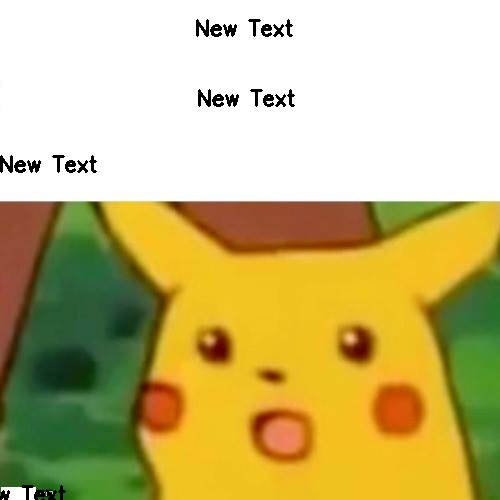
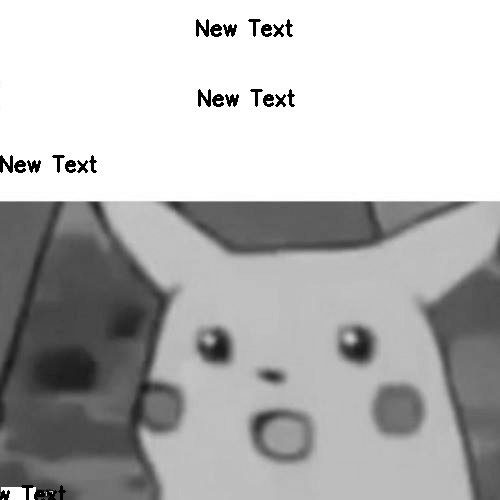
add hujny

diff --git a/main.py b/main.py
@@ -3,7 +3,7 @@ import cv2
 
 def detect_and_replace_text(image_path, new_text, output_path):
     # Загрузка изображения
-    image = cv2.imread(image_path)
+    image = cv2.imread(image_path, cv2.IMREAD_GRAYSCALE)
     
     # Проверка, что изображение загружено корректно
     if image is None:
@@ -43,5 +43,3 @@ new_text = 'New Text'
 output_path = '../images/output_image.png'
 
 detect_and_replace_text('./images/image.png', new_text, './images/output_image.png')
-
-

diff --git a/README.md b/README.md
@@ -7,8 +7,6 @@
     source myenv/bin/activate  # Unix или MacOS
 
     # Installing the necessary libraries
-    pip install opencv-python-headless translate      
-    pip install --upgrade openai
-
+    pip install opencv-python translate cv2 easyocr
 ```
 
